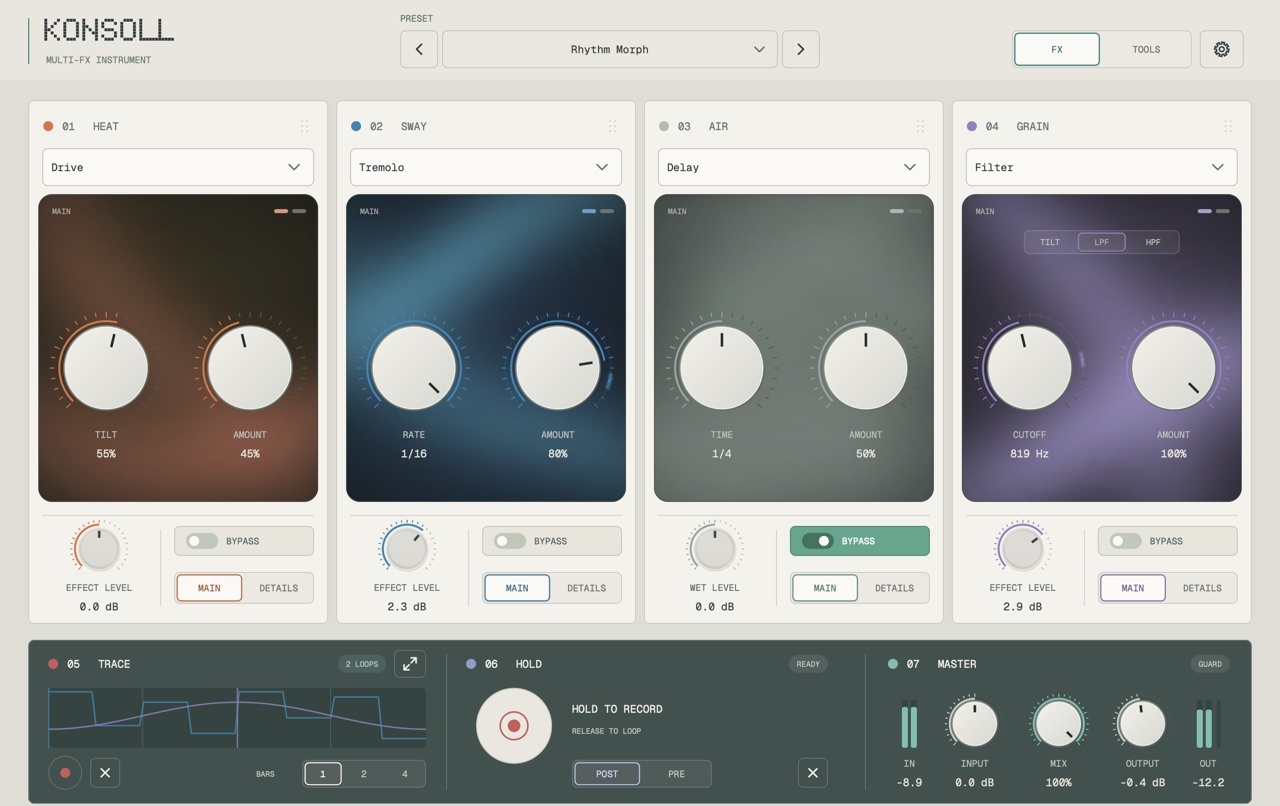
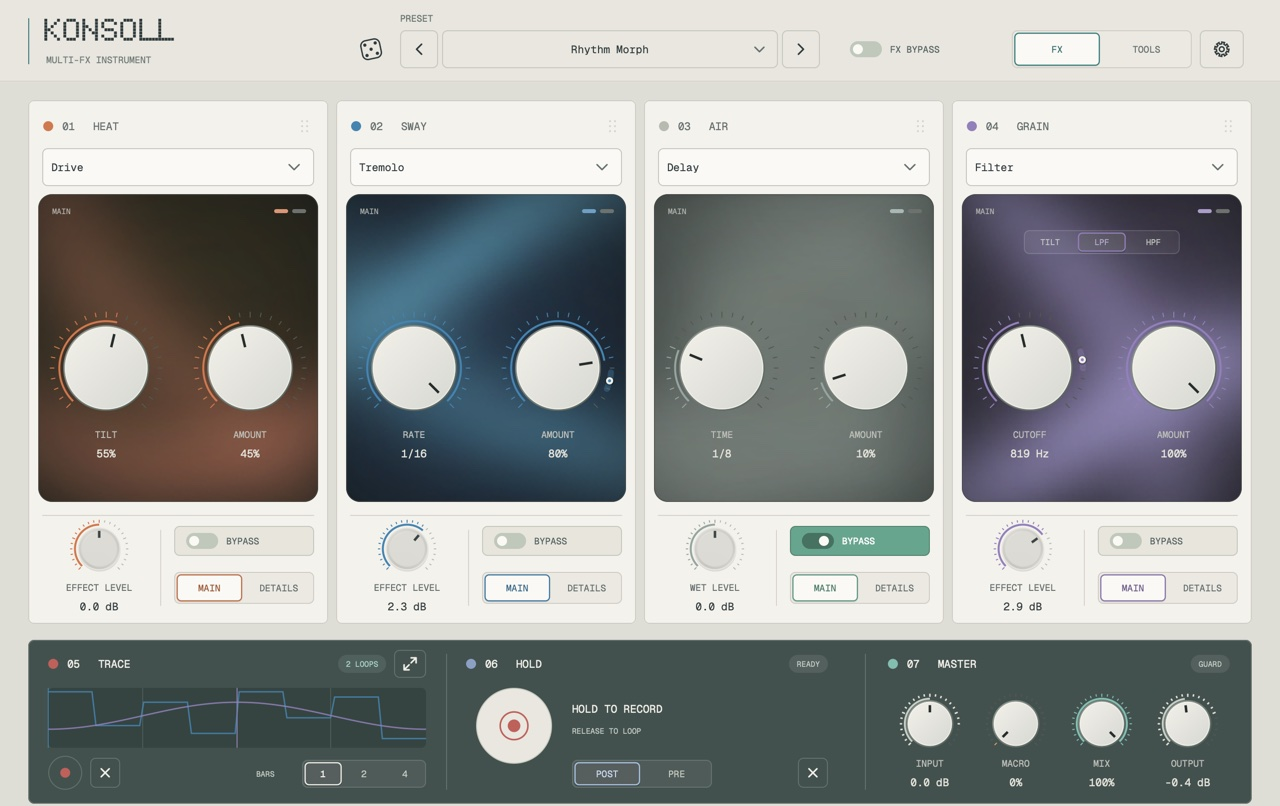
Show the current interface; describe MACRO, MUTATE, FX BYPASS and LINK; 57 presets
Frames re-rendered from the plug-in (dice, FX BYPASS, MACRO in MASTER, Trace beads).
Feature items keep their heading and text together when a row is taller.

Changed region(s): [[0.6875, 0.8685, 0.9688, 0.9926], [0.6562, 0.031, 0.6875, 0.0931], [0.2812, 0.031, 0.3125, 0.0931]]

diff --git a/index.html b/index.html
@@ -4,12 +4,12 @@
 <meta charset="utf-8">
 <meta name="viewport" content="width=device-width, initial-scale=1">
 <title>KONSOLL by Fløa — four modules that move with the track</title>
-<meta name="description" content="KONSOLL is a four-module multi-FX instrument by Fløa: HEAT, SWAY, AIR and GRAIN, with Trace, Hold, Scenes and 51 factory presets. Audio Unit and VST3 for Apple Silicon Macs. Public beta soon.">
+<meta name="description" content="KONSOLL is a four-module multi-FX instrument by Fløa: HEAT, SWAY, AIR and GRAIN, with Trace, Hold, Scenes, MACRO and 57 factory presets. Audio Unit and VST3 for Apple Silicon Macs. Public beta soon.">
 <meta name="theme-color" content="#e8e6de">
 <link rel="icon" href="assets/img/favicon.svg" type="image/svg+xml">
 <link rel="icon" href="assets/img/favicon-32.png" sizes="32x32" type="image/png">
 <link rel="apple-touch-icon" href="assets/img/apple-touch-icon.png">
-<link rel="stylesheet" href="assets/css/site.css?v=8">
+<link rel="stylesheet" href="assets/css/site.css?v=9">
 <meta property="og:type" content="website">
 <meta property="og:title" content="KONSOLL by Fløa">
 <meta property="og:description" content="Four effect modules that move with the track. Audio Unit and VST3.">
@@ -43,15 +43,15 @@
       <img class="mark" src="assets/img/konsoll-wordmark.svg" width="320" height="54" alt="KONSOLL">
       <p class="eyebrow">Multi-FX instrument · by Fløa</p>
       <h1>Four modules that move with the track.</h1>
-      <p class="lede">Drive, movement, space and texture in one plug-in. Each module plays one of five effects; Trace, Hold and Scenes keep them moving while you play.</p>
+      <p class="lede">Drive, movement, space and texture in one plug-in. Each module plays one of five effects; Trace, Hold, Scenes and MACRO keep them moving while you play.</p>
       <ul class="chips" aria-label="At a glance">
         <li class="soon">Beta · v0.9.0 · soon</li>
         <li>AU · VST3</li>
         <li>macOS · Apple Silicon</li>
       </ul>
       <figure class="hero-shot">
-        <img src="assets/img/konsoll.jpg"
-             srcset="assets/img/konsoll.jpg 1920w, assets/img/konsoll@2x.jpg 2560w"
+        <img src="assets/img/konsoll.jpg?v=2"
+             srcset="assets/img/konsoll.jpg?v=2 1920w, assets/img/konsoll@2x.jpg?v=2 2560w"
              sizes="(max-width: 1120px) 100vw, 1120px"
              width="1920" height="1209"
              alt="The KONSOLL interface playing the Backwards Halo preset: four modules, HEAT, SWAY, AIR and GRAIN, each with a coloured field and two knobs, above the Trace, Hold and Master sections.">
@@ -98,11 +98,11 @@
       <div class="split">
         <div class="text">
           <h2>Everything can move on its own</h2>
-          <p>Trace records the knobs you turn and loops them in time with the host. Hold records a moment of audio and loops it. Scenes store whole sounds and morph between them, by hand or over bars of the song. A sidechain from another track can move any control.</p>
+          <p>Trace records the knobs you turn and loops them in time with the host. Hold records a moment of audio and loops it. Scenes store whole sounds and morph between them, by hand or over bars of the song. A sidechain from another track or the MACRO knob can move any control, up to four at once.</p>
           <p>A bypassed module mists over rather than going dark, so you can see at a glance what is playing.</p>
         </div>
         <figure>
-          <img src="assets/img/konsoll-bypass.jpg" width="1280" height="806" loading="lazy"
+          <img src="assets/img/konsoll-bypass.jpg?v=2" width="1280" height="806" loading="lazy"
                alt="KONSOLL playing the Rhythm Morph preset: Drive, Tremolo and Filter lit, the bypassed AIR module covered in a soft mist.">
           <figcaption>Rhythm Morph · AIR bypassed</figcaption>
         </figure>
@@ -111,9 +111,12 @@
         <ul class="features">
           <li><b>Trace</b><span>Loops your knob movements over 1, 2 or 4 bars, locked to the host tempo.</span></li>
           <li><b>Hold</b><span>Hold to record a moment of audio, release to loop it, before or after the effects.</span></li>
-          <li><b>Scenes &amp; Evolve</b><span>Four stored sounds, and a morph between two of them.</span></li>
+          <li><b>Scenes &amp; Evolve</b><span>Four stored sounds and a morph between two of them; LINK switches every linked KONSOLL at once.</span></li>
+          <li><b>Macro</b><span>One knob in MASTER. On a factory preset it gives more of that preset; in your own sounds it can move up to four controls.</span></li>
+          <li><b>Mutate</b><span>The dice nudge the module knobs to a nearby variation. Effects, levels and routing stay; the sound before is kept to go back to.</span></li>
+          <li><b>FX Bypass</b><span>One switch turns off all four modules, or the group you choose. Each module keeps its own bypass.</span></li>
           <li><b>Routing &amp; sidechain</b><span>Chain, two paths, centre and sides, or a feedback loop; another track can move any control.</span></li>
-          <li><b>51 factory presets</b><span>Loudness matched, so they differ by character, not level. Tuned by ear in blind tests.</span></li>
+          <li><b>57 factory presets</b><span>Loudness matched, so they differ by character, not level. Tuned by ear in blind tests.</span></li>
           <li><b>Guard</b><span>Keeps the output under its ceiling and shows when it acts.</span></li>
         </ul>
       </div>

diff --git a/assets/css/site.css b/assets/css/site.css
@@ -118,7 +118,7 @@ figcaption { font: 11px/1.5 var(--mono); letter-spacing: .06em; text-transform: 
 /* features on the dark performance panel, as Trace / Hold / Master sit in the plug-in */
 .perf { background: var(--perf); color: var(--perf-ink); border-radius: 10px; padding: clamp(18px, 3vw, 28px); margin-top: 28px; }
 .features { list-style: none; padding: 0; margin: 0; display: grid; grid-template-columns: repeat(auto-fit, minmax(min(100%, 300px), 1fr)); gap: 0 32px; }
-.features li { padding: 14px 0; border-bottom: 1px solid rgba(240, 239, 232, .14); display: grid; gap: 4px; }
+.features li { padding: 14px 0; border-bottom: 1px solid rgba(240, 239, 232, .14); display: grid; gap: 4px; align-content: start; }
 .features b { font: 400 13px/1.3 var(--mono); letter-spacing: .08em; text-transform: uppercase; }
 .features span { color: var(--perf-muted); font-size: 15px; }
 
